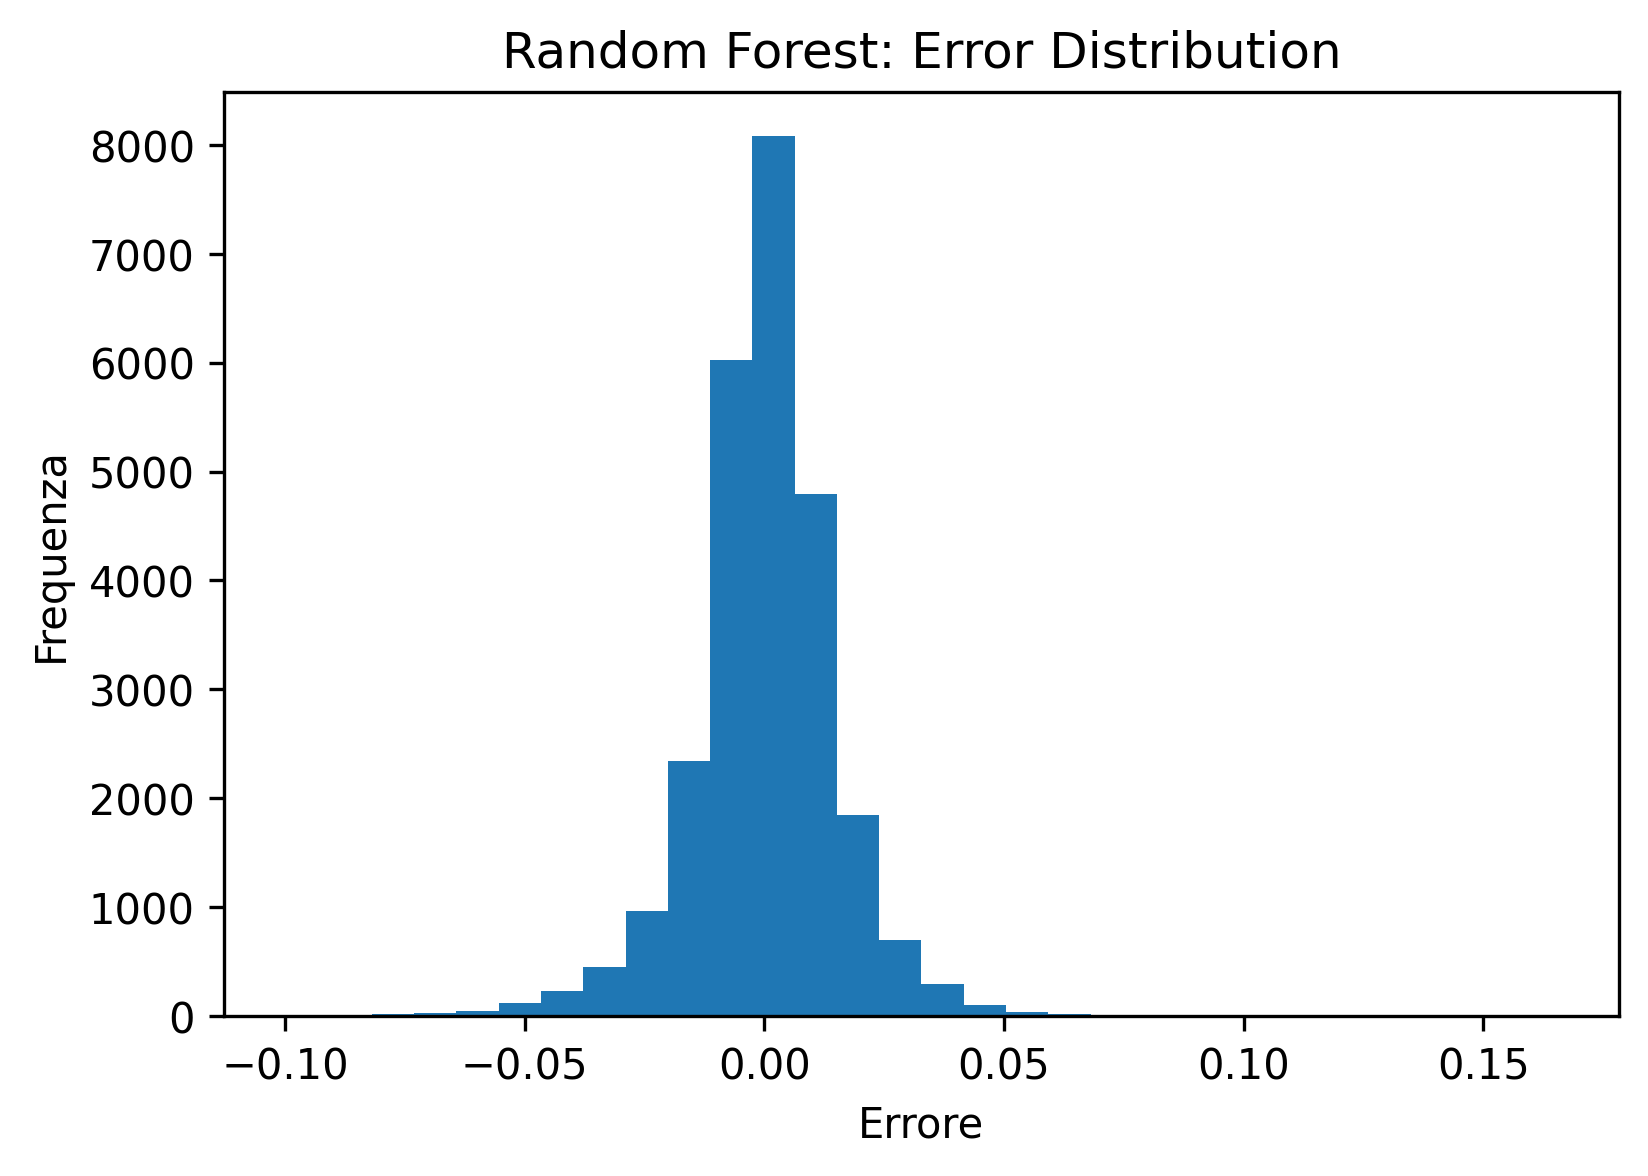
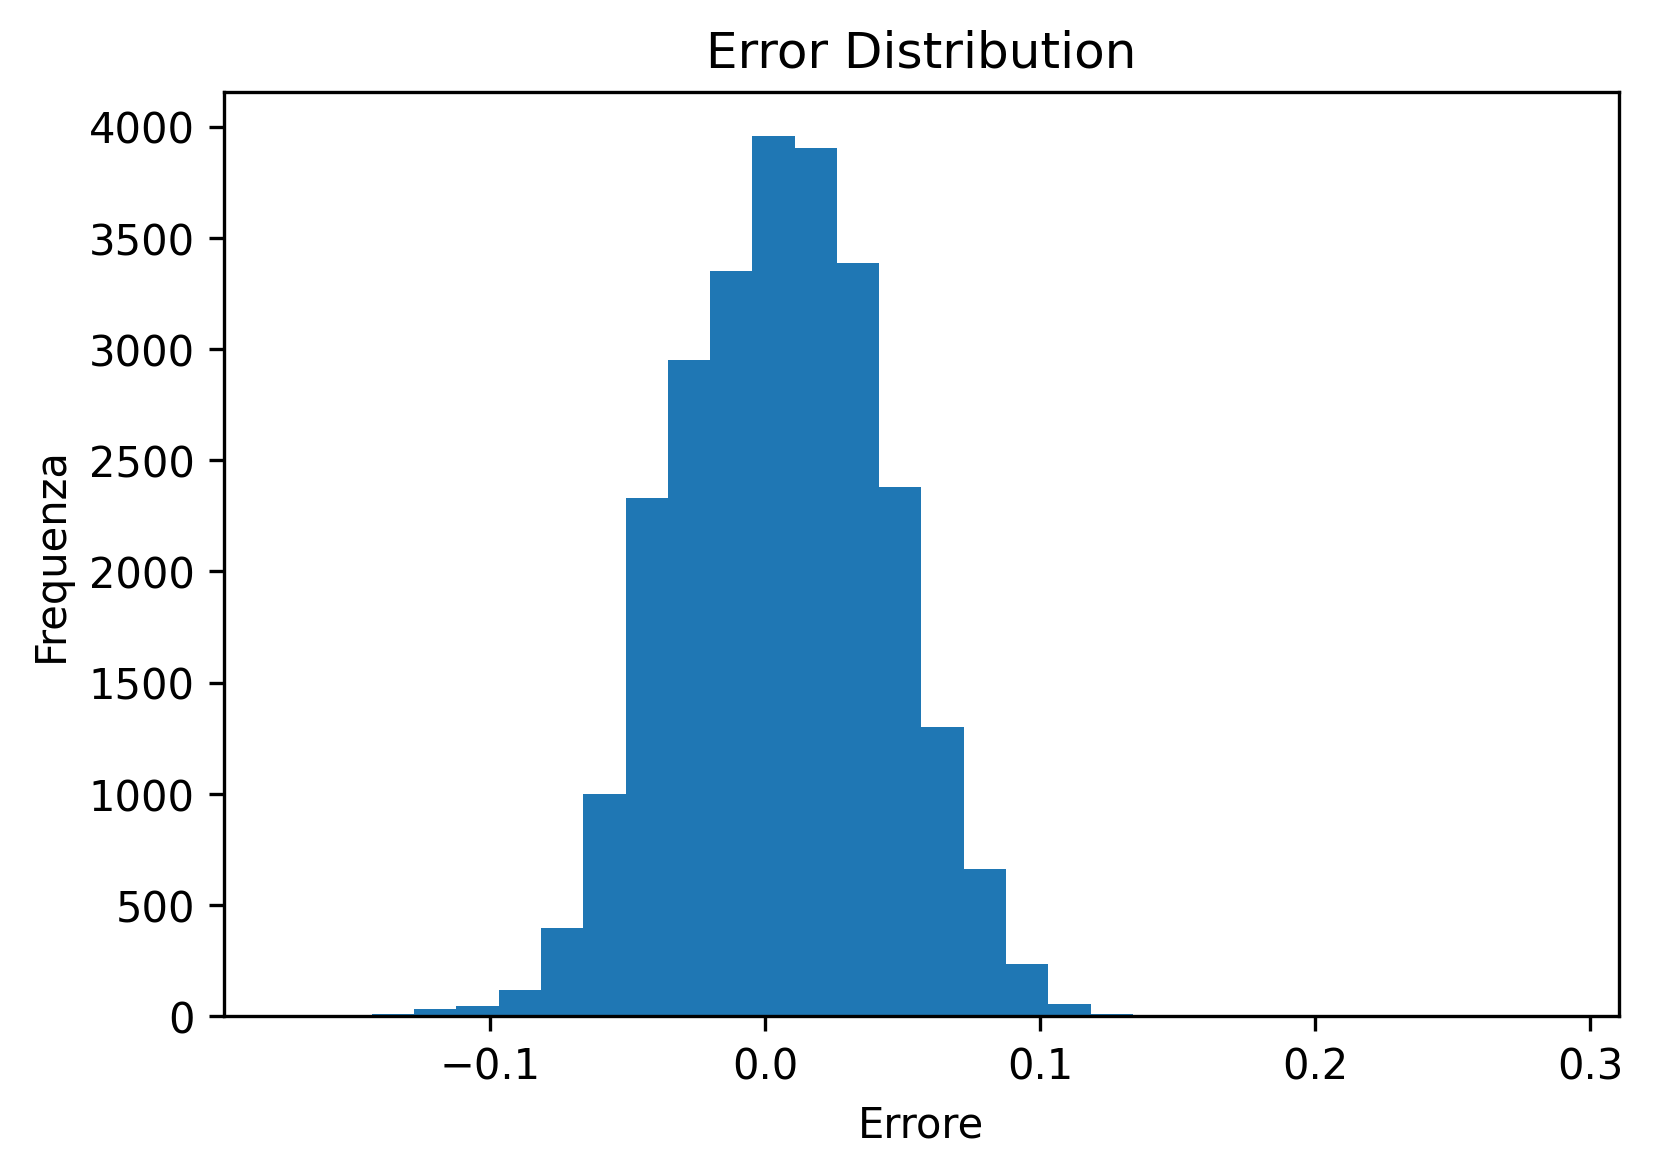
graph NN

diff --git a/src/modello/modello.py b/src/modello/modello.py
@@ -1,10 +1,17 @@
 import pandas as pd
 import numpy as np
+import time
 
+#per Model Trainer
 from sklearn.model_selection import train_test_split
 from sklearn.ensemble import RandomForestRegressor
 from sklearn.metrics import mean_absolute_error, mean_squared_error, r2_score
 
+#per GNN
+import torch
+import torch.nn.functional as F
+from torch.nn import Linear
+from torch_geometric.nn import GCNConv, global_mean_pool
 
 class ModelTrainer:
     def __init__(self, test_size=0.2, random_state=42, n_estimators=200):
@@ -75,3 +82,210 @@ class ModelTrainer:
         }).sort_values("importance", ascending=False)
 
         return importance_df
+  
+ 
+        
+
+
+
+class GNNModel(torch.nn.Module):
+    def __init__(self, in_channels, hidden_channels=64):
+        super().__init__()
+
+        # Convoluzione grafo: feature iniziali -> feature nascoste
+        self.conv1 = GCNConv(in_channels, hidden_channels)
+
+        # Seconda convoluzione grafo
+        self.conv2 = GCNConv(hidden_channels, hidden_channels)
+
+        # Output finale per regressione
+        self.lin = Linear(hidden_channels, 1)
+
+    def forward(self, x, edge_index, batch):
+        # Primo messaggio tra nodi
+        x = self.conv1(x, edge_index)
+        x = F.relu(x)
+
+        # Secondo messaggio tra nodi
+        x = self.conv2(x, edge_index)
+        #ReLU significa Rectified Linear Unit ed è una funzione di attivazione. In PyTorch viene definita elemento per elemento come max(0, x). 
+        #Quindi lascia passare i valori positivi e mette a zero quelli negativi
+        x = F.relu(x)
+
+        # Aggregazione da nodi -> grafo
+        x = global_mean_pool(x, batch)
+
+        # Predizione finale
+        x = self.lin(x)
+
+        return x
+
+import torch
+import torch.nn as nn
+
+
+class GNNTrainer:
+    def __init__(self, model, train_loader, test_loader, lr=0.001, device=None):
+        """
+        model: modello GNN già creato
+        train_loader: DataLoader per il training
+        test_loader: DataLoader per il test
+        lr: learning rate dell'optimizer
+        device: cpu o cuda
+        """
+        self.model = model
+        self.train_loader = train_loader
+        self.test_loader = test_loader
+        self.train_losses = []
+        self.test_losses = []
+        self.epoch_time = []
+        self.y_true = None
+        self.y_pred = None
+        
+        # Se non viene specificato, usa GPU se disponibile, altrimenti CPU
+        self.device = device if device else torch.device("cuda" if torch.cuda.is_available() else "cpu")
+
+        # Sposta il modello sul device scelto
+        self.model.to(self.device)
+
+        # Loss per regressione
+        self.criterion = nn.MSELoss()
+
+        # Optimizer
+        self.optimizer = torch.optim.Adam(self.model.parameters(), lr=lr)
+
+    def train_one_epoch(self):
+        """
+        Esegue una singola epoca di training.
+        Restituisce la loss media sul training set.
+        """
+
+        # modalità training
+        self.model.train()
+
+        total_loss = 0
+
+        for batch in self.train_loader:
+            # sposta il batch su device
+            batch = batch.to(self.device)
+
+            # azzera i gradienti del passo precedente
+            self.optimizer.zero_grad()
+
+            # forward pass
+            pred = self.model(batch.x, batch.edge_index, batch.batch)
+
+            # target reale
+            target = batch.y.view(-1, 1).float()
+
+            # calcolo loss
+            loss = self.criterion(pred, target)
+
+            # backward
+            loss.backward()
+
+            # aggiornamento pesi
+            self.optimizer.step()
+
+            total_loss += loss.item()
+
+        # loss media sull'intera epoca
+        avg_loss = total_loss / len(self.train_loader)
+        return avg_loss
+
+    def evaluate(self):
+        """
+        Valuta il modello sul test set.
+        Restituisce la loss media di test.
+        """
+
+        # modalità evaluation
+        self.model.eval()
+
+        total_loss = 0
+
+        # disattiva il calcolo dei gradienti
+        with torch.no_grad():
+            for batch in self.test_loader:
+                # sposta batch su device
+                batch = batch.to(self.device)
+
+                # forward pass
+                pred = self.model(batch.x, batch.edge_index, batch.batch)
+                
+
+                # target reale
+                target = batch.y.view(-1, 1).float()
+
+                # loss
+                loss = self.criterion(pred, target)
+
+                total_loss += loss.item()
+
+        avg_loss = total_loss / len(self.test_loader)
+        return avg_loss
+
+    def run(self, epochs=20):
+        """
+        Esegue training + evaluation per un certo numero di epoche.
+        """
+        total_start_time = time.time()
+        for epoch in range(epochs):
+            epoch_start_time = time.time()
+            train_loss = self.train_one_epoch()
+            test_loss = self.evaluate()
+            epoch_time = time.time() - epoch_start_time
+
+            #crea liste !sentinella!
+            self.epoch_time.append(epoch_time)
+            self.train_losses.append(train_loss)
+            self.test_losses.append(test_loss)
+            
+            print(
+                f"Epoch {epoch + 1}/{epochs} | "
+                f"Train Loss: {train_loss:.4f} | "
+                f"Test Loss: {test_loss:.4f} |" 
+                f"Time: {epoch_time:.2f} s"
+            )
+        total_time = time.time() - total_start_time
+        print(f"Training completato in {total_time:.2f} secondi")
+        
+    def get_predictions(self):
+        self.model.eval()
+
+        y_true = []
+        y_pred = []
+
+        with torch.no_grad():
+            for batch in self.test_loader:
+                batch = batch.to(self.device)
+
+                pred = self.model(batch.x, batch.edge_index, batch.batch)
+
+                y_true.append(batch.y.view(-1, 1).cpu())
+                y_pred.append(pred.cpu())
+
+        y_true = torch.cat(y_true, dim=0).numpy().flatten()
+        y_pred = torch.cat(y_pred, dim=0).numpy().flatten()
+        self.y_true = y_true
+        self.y_pred = y_pred 
+
+        return y_true, y_pred
+    
+    def evaluate_GNN(self):
+        mae = mean_absolute_error(self.y_true, self.y_pred)
+        rmse = np.sqrt(mean_squared_error(self.y_true, self.y_pred))
+        r2 = r2_score(self.y_true, self.y_pred)
+
+        self.metrics = {
+            "MAE": mae,
+            "RMSE": rmse,
+            "R2": r2
+        }
+
+        print("Valutazione modello:")
+        print(f"MAE : {mae:.4f}")
+        print(f"RMSE: {rmse:.4f}")
+        print(f"R2  : {r2:.4f}")
+
+        return self.metrics

diff --git a/src/main.py b/src/main.py
@@ -3,6 +3,9 @@ from parser.data_loader import QM9Parser
 from xy.FeatureExtractor import FeatureExtractor
 from modello.modello import  ModelTrainer
 from plots.model_visualizer import ModelVisualizer
+from graph.graf import Graph_tools
+from modello.modello import GNNModel, GNNTrainer
+from torch_geometric.loader import DataLoader
 
 def main():
     input_path = "../data/raw/qm9_dataset"
@@ -13,13 +16,58 @@ def main():
 
     df = parser.parse_folder()
     parser.save_csv(df, output_path)
-
     
-
-
     #extraction for X[descriptors(molecule_id,rings,weights,ecc)] Y[molecule_id,gap]
     df = pd.read_csv(output_path)
     print(f"Dataset caricato: {len(df)} righe")
+    df.info()
+    #print(df.head(10))
+    
+    #obj
+    graph = Graph_tools()
+    
+    datas= []
+    for _,row in df.iterrows():
+        smile = row["smiles"]
+        target = row["gap"]
+        
+        data= graph.smiles_to_graph(smile,target)
+        datas.append(data)
+    print(df["smiles"].iloc[1])
+    print(datas[1])
+    print(datas[1])
+    print(datas[1].x.shape)
+    print(datas[1].edge_index.shape)
+    print(datas[1].y)
+    
+    #auto test size 0.2 random seed 42
+    train_data, test_data = graph.split_data_GNN(datas, test_size=0.2, random_state=42)
+    
+    train_loader = DataLoader(train_data, batch_size=32, shuffle=True)
+    test_loader = DataLoader(test_data, batch_size=32, shuffle=False)
+    #model creation obj 
+    
+    model = GNNModel(in_channels=4,hidden_channels=32)
+    
+    #ogetto trainer in per poi usare run(funzione che fa il training )
+    trainer = GNNTrainer(model, train_loader, test_loader, lr=0.001)
+    print(trainer.device)
+    trainer.run(epochs=20)
+    
+    visualizer = ModelVisualizer()
+    
+    visualizer.plot_losses(trainer.train_losses, trainer.test_losses)
+    visualizer.plot_epoch_times(trainer.epoch_time)
+    
+    y_true, y_pred = trainer.get_predictions()
+
+
+    visualizer.plot_predictions(y_true, y_pred)
+    visualizer.plot_errors(y_true, y_pred)
+
+    trainer.evaluate_GNN()
+
+'''
 
     # obj 
     extractor = FeatureExtractor()
@@ -70,5 +118,9 @@ def main():
     
     print("Pipeline completata!")
 
+'''
+
 if __name__ == "__main__":
     main()
+    
+    

diff --git a/src/graph/graf.py b/src/graph/graf.py
@@ -1,0 +1,54 @@
+
+import pandas as pd
+from rdkit import Chem
+import torch
+from torch_geometric.data import Data
+from sklearn.model_selection import train_test_split
+from torch_geometric.loader import DataLoader
+
+
+class Graph_tools : 
+    def __init__(self):
+        pass
+    
+    def atom_features(self, atom):
+        return [
+            atom.GetAtomicNum(),
+            atom.GetDegree(),
+            atom.GetFormalCharge(),
+            int(atom.GetIsAromatic()),
+        ]
+    def smiles_to_graph(self,smiles,target):
+        mol = Chem.MolFromSmiles(smiles)    
+        if mol is None:
+            raise ValueError(f"Invalid SMILES: {smiles}")
+
+        x = [self.atom_features(atom) for atom in mol.GetAtoms()]
+        x = torch.tensor(x, dtype=torch.float)
+
+        edge_index = []
+        for bond in mol.GetBonds():
+            i = bond.GetBeginAtomIdx()
+            j = bond.GetEndAtomIdx()
+            edge_index.append([i, j])
+            edge_index.append([j, i])
+
+        if len(edge_index) == 0:
+            edge_index = torch.empty((2, 0), dtype=torch.long)
+        else:
+            edge_index = torch.tensor(edge_index, dtype=torch.long).t().contiguous()
+
+        y = torch.tensor([target], dtype=torch.float)
+
+        return Data(x=x, edge_index=edge_index, y=y)
+    
+    def split_data_GNN(self, datas ,test_size=0.2, random_state=42):
+        self.train_data, self.test_data = train_test_split(
+            datas,
+            test_size=test_size,
+            random_state=random_state
+        )
+
+        print("Train size:", len(self.train_data))
+        print("Test size :", len(self.test_data))
+        return  self.train_data , self.test_data

diff --git a/src/plots/model_visualizer.py b/src/plots/model_visualizer.py
@@ -37,3 +37,28 @@ class ModelVisualizer:
         plt.title(title)
         plt.savefig("../results/feature_importance.png", dpi=300, bbox_inches="tight")  
         plt.show()
+        
+    def plot_losses(self, train_losses, test_losses, title="Training and Test Loss"):
+        epochs = range(1, len(train_losses) + 1)
+
+        plt.figure(figsize=(7, 5))
+        plt.plot(epochs, train_losses, label="Train Loss")
+        plt.plot(epochs, test_losses, label="Test Loss")
+        plt.xlabel("Epoche")
+        plt.ylabel("Loss")
+        plt.title(title)
+        plt.legend()
+        plt.savefig("../results/loss_curve.png", dpi=300, bbox_inches="tight")
+        plt.show()
+
+
+    def plot_epoch_times(self, epoch_time, title="Time per Epoch"):
+        epochs = range(1, len(epoch_time) + 1)
+
+        plt.figure(figsize=(7, 5))
+        plt.plot(epochs, epoch_time)
+        plt.xlabel("Epoche")
+        plt.ylabel("Tempo (s)")
+        plt.title(title)
+        plt.savefig("../results/epoch_times.png", dpi=300, bbox_inches="tight")
+        plt.show()
